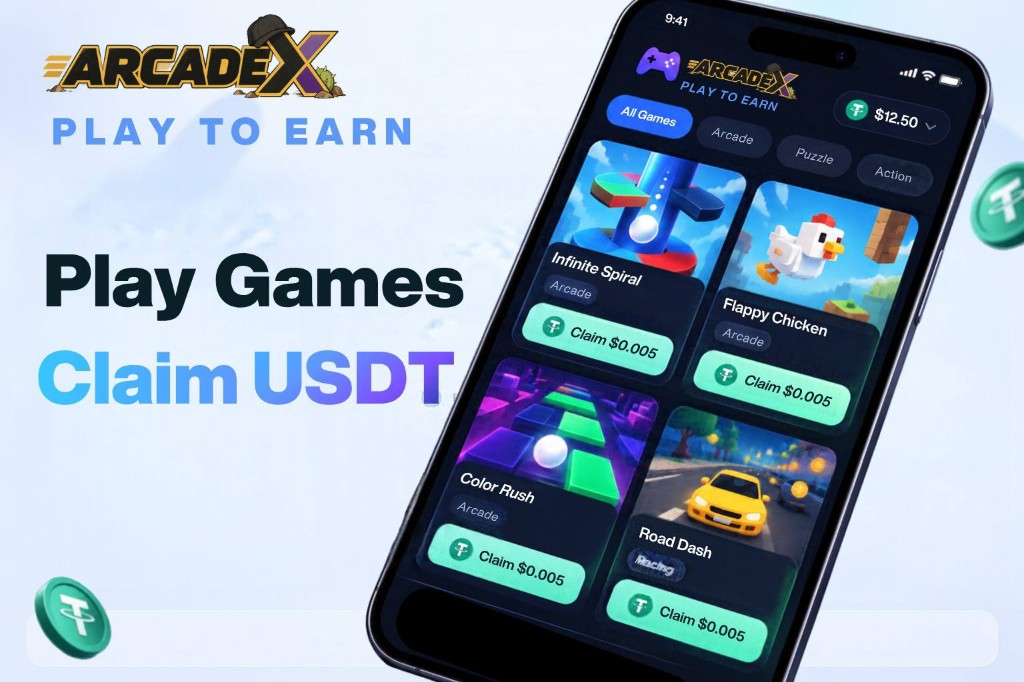
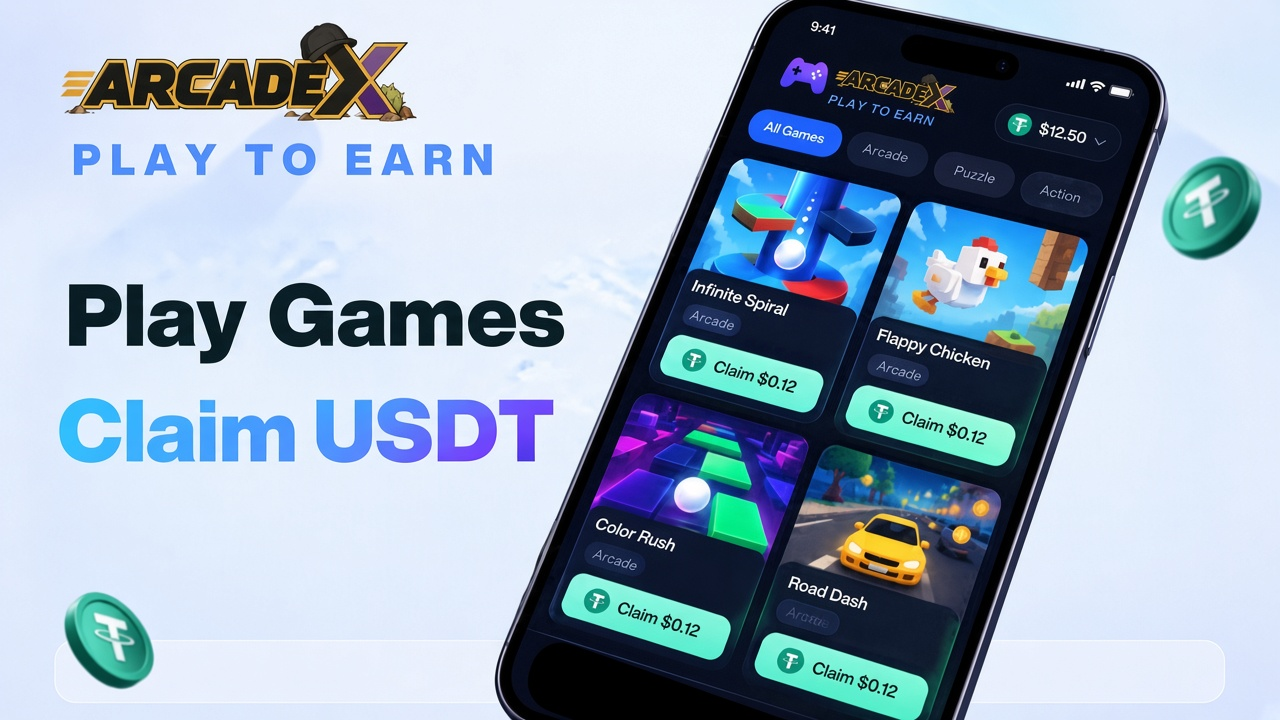
x

diff --git a/lib/game-open-campaigns.ts b/lib/game-open-campaigns.ts
@@ -1,6 +1,6 @@
 /**
  * Option C: one ArcadeXRewards SHUFFLE campaign per live game.
- * Campaign IDs 20–32 for the current 13 live titles ($0.012 USDT).
+ * Campaign IDs 20–32 for the current 13 live titles ($0.12 USDT).
  * Legacy 7–19 are frozen at $0.005 after participants (ParamsFrozen).
  *
  * Resolution order:
@@ -223,7 +223,7 @@ export function listMappedGameOpenCampaigns(): Array<{
     .sort((a, b) => a.campaignId - b.campaignId || a.gameId.localeCompare(b.gameId));
 }
 
-/** Shared setCampaign economics for every per-game open campaign ($0.012 USDT). */
+/** Shared setCampaign economics for every per-game open campaign ($0.12 USDT). */
 export const GAME_OPEN_SET_CAMPAIGN_TEMPLATE = {
   campaignType: 1 as const,
   active: true,
@@ -239,5 +239,5 @@ export const GAME_OPEN_SET_CAMPAIGN_TEMPLATE = {
[1 lines of base64/hex data omitted]
   resetAfterMilestone: true,
   requireEligibility: false,
-  maxSinglePayout: 12_000,
+  maxSinglePayout: 120_000,
 } as const;

diff --git a/app/api/game-open-claim/claim-sign/route.ts b/app/api/game-open-claim/claim-sign/route.ts
@@ -131,7 +131,7 @@ export async function POST(request: Request) {
     const maxPayout = BigInt(progress.campaign.maxSinglePayout || "0");
     if (maxPayout > BigInt(0) && GAME_OPEN_CLAIM_REWARD_AMOUNT > maxPayout) {
       return NextResponse.json(
-        { error: "Campaign maxSinglePayout is too low for 0.012 USDT.", code: "BAD_PAYOUT" },
+        { error: "Campaign maxSinglePayout is too low for 0.12 USDT.", code: "BAD_PAYOUT" },
         { status: 400 }
       );
     }
@@ -171,7 +171,7 @@ export async function POST(request: Request) {
       wallet,
       campaignId,
       nonce,
-      outcomeId: `game-open-${gameId}-0.012`,
+      outcomeId: `game-open-${gameId}-0.12`,
       outcomeType: "usdt",
       displayAmount: GAME_OPEN_CLAIM_USDT,
       rewardMode,

diff --git a/components/GamePageClient.tsx b/components/GamePageClient.tsx
@@ -276,7 +276,7 @@ export default function GamePageClient() {
         throw new Error("Game not loaded.");
       }
 
-      // Claim $0.012 once per UTC day per game (on-chain spin+claim). No TxHub.
+      // Claim $0.12 once per UTC day per game (on-chain spin+claim). No TxHub.
       if (isGameOpenClaimEnabled() && needsClaim) {
         if (!hasValidWalletSession(walletAddress)) {
           await ensureWalletSession(walletAddress);
@@ -436,7 +436,7 @@ export default function GamePageClient() {
     setLbMode("default");
   }
 
-  const claimAmountLabel = `$${GAME_OPEN_CLAIM_USDT.toFixed(3)}`;
+  const claimAmountLabel = `$${GAME_OPEN_CLAIM_USDT.toFixed(2)}`;
 
   return (
     <>

diff --git a/components/EarnNowHomeBanner.tsx b/components/EarnNowHomeBanner.tsx
@@ -1,14 +1,12 @@
 "use client";
 
-import { GAME_OPEN_CLAIM_BANNER_USDT } from "@/lib/game-open-claim";
-
 interface EarnNowHomeBannerProps {
   onOpen?: () => void;
 }
 
 /** Home promo strip — replaces Daily XP banner (code kept, UI gated). */
 export default function EarnNowHomeBanner({ onOpen }: EarnNowHomeBannerProps) {
-  const rewardLabel = `$${GAME_OPEN_CLAIM_BANNER_USDT.toFixed(3)} USDT`;
+  const rewardLabel = "$0.12 USDT";
   return (
     <section className="daily-xp-home-banner" aria-label="Earn everyday reward">
       <div className="daily-xp-home-banner__card">

diff --git a/components/GameMenu.tsx b/components/GameMenu.tsx
@@ -21,7 +21,7 @@ interface GameMenuProps {
   onLeaderboard: () => void;
   starting?: boolean;
   sparkError?: string;
-  /** When true, CTA is Claim $0.012; when false, Start Game. */
+  /** When true, CTA is Claim $0.12; when false, Start Game. */
   needsClaim?: boolean;
   claimAmountLabel?: string;
 }
@@ -35,7 +35,7 @@ export default function GameMenu({
   starting = false,
   sparkError,
   needsClaim = false,
-  claimAmountLabel = "$0.012",
+  claimAmountLabel = "$0.12",
 }: GameMenuProps) {
   const router = useRouter();
   const contestLive = gameHasContestLive(game);

diff --git a/lib/feature-flags.ts b/lib/feature-flags.ts
@@ -30,7 +30,7 @@ export function isAutoOnboardingEnabled(): boolean {
   return envFlag("NEXT_PUBLIC_AUTO_ONBOARDING_ENABLED", false);
 }
 
-/** Per-game $0.012 USDT open claim (on-chain spin+claim). */
+/** Per-game $0.12 USDT open claim (on-chain spin+claim). */
 export function isGameOpenClaimEnabled(): boolean {
   return envFlag("NEXT_PUBLIC_GAME_OPEN_CLAIM_ENABLED", true);
 }

diff --git a/app/api/game-open-claim/claim-sync/route.ts b/app/api/game-open-claim/claim-sync/route.ts
@@ -127,7 +127,7 @@ export async function POST(request: Request) {
     }
     if (verified.rewardAmount !== GAME_OPEN_CLAIM_REWARD_AMOUNT) {
       return NextResponse.json(
-        { error: "Spin amount does not match 0.012 USDT.", code: "BAD_AMOUNT" },
+        { error: "Spin amount does not match 0.12 USDT.", code: "BAD_AMOUNT" },
         { status: 400 }
       );
     }

diff --git a/components/EarnNowModal.tsx b/components/EarnNowModal.tsx
@@ -65,8 +65,8 @@ export default function EarnNowModal({
           className="earn-now-modal__art"
           src={EARN_NOW_POPUP_IMAGE}
           alt="Play games, claim USDT"
-          width={1080}
-          height={1080}
+          width={1024}
+          height={682}
           decoding="async"
           fetchPriority="high"
         />

diff --git a/components/GameCard.tsx b/components/GameCard.tsx
@@ -70,7 +70,7 @@ export default function GameCard({
     game.contestEndsAt,
     showContestTimer && contestLive
   );
-  const claimLabel = `Claim $${GAME_OPEN_CLAIM_USDT.toFixed(3)}`;
+  const claimLabel = `Claim $${GAME_OPEN_CLAIM_USDT.toFixed(2)}`;
 
   const thumbCandidates = useMemo(
     () => gameAssetCandidates(game, "thumbnail"),
